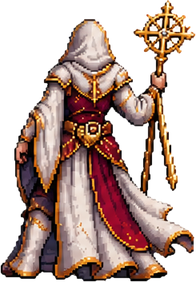
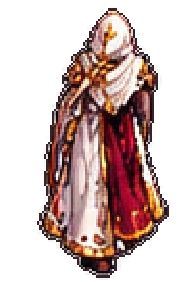
v47: Clériga renovada (poses recortadas, Bíblia, ataque/defesa sagrados, Luz Sagrada, morte)
Claude-Session: https://claude.ai/code/session_01YFC38PcyDKAfPNhJ7r1cKG

diff --git a/cleric.js b/cleric.js
@@ -1,0 +1,186 @@
+/* Banco de Dados I — RPG · Clériga (v47)
+   Poses de COSTAS recortadas das folhas de fundo branco (clr/*.png): mesma escala, ancoradas no chão pelo mesmo ponto,
+   trocadas com transição suave e brilhos dourados. Habilidades dela: ataque normal (cajado), ataque sagrado, defesa normal/sagrada, esquiva, Luz Sagrada.
+   Ociosa: lê a Bíblia, toca no livro, reza — sorteado, sem ficar se mexendo o tempo todo. */
+(() => {
+'use strict';
+const POSES = ['at1','at2','at3','at3','at2','dn1','dn2','dn2','dn1','dg1','dg2','dg3','idle1','stf','pr1','pr2','ex1','v1','v2','d1','d2','d3','d4','ult1','ult2','bt1','bt2','bt3','bt4','bp1','bp2','bp3','br1','br2','br3','br4','br5','br6','bg1','bg2','bg3','bg4'];
+const FXS = ['star1','star2','star3','ring1','ring2','ring3','pillar','lotus','burst','aura','streak1','streak2','streak3','sunstar','star4','pillar2','cross1'];
+const T = {x:517, y:340};
+const BASE = 276;
+const GOLD = '255,214,120';
+let _c = 0, _p = performance.now();
+const clk = () => { const n = performance.now(); _c += (n - _p) * (window.__ts == null ? 1 : window.__ts); _p = n; return _c; };
+const ease = u => u < .5 ? 2*u*u : 1 - Math.pow(-2*u + 2, 2) / 2, eo = u => 1 - Math.pow(1 - u, 3), ei = u => u * u * u;
+const clamp = (v, a=0, b=1) => Math.max(a, Math.min(b, v)), lerp = (a, b, u) => a + (b - a) * u, rnd = (a, b) => a + Math.random() * (b - a);
+const seg = (u, a, b) => clamp((u - a) / (b - a));
+const S = (d, steps, ev = [], o = {}) => ({dur:d, steps, ev, ...o});
+
+const ACT = {
+  melee:[
+    S(1200, [[0,'idle1'],[.14,'at1',{dx:-3}],[.32,'at2',{dx:-6}],[.52,'at3',{dx:4,dy:-4}],[.8,'at3',{dx:2}],[.96,'idle1']], [[.2,'charge'],[.5,'shot:streak1:.9'],[.76,'hit:small']]),
+    S(1300, [[0,'idle1'],[.12,'stf',{dx:-2}],[.34,'at1',{dx:-4}],[.54,'at3',{dx:4,dy:-4}],[.82,'at3',{dx:2}],[.96,'idle1']], [[.3,'charge'],[.54,'shot:streak2:.9'],[.78,'hit:small']]),
+    S(1400, [[0,'idle1'],[.14,'dn1',{dx:-3}],[.34,'at2',{dx:-4}],[.54,'at2',{dx:3}],[.82,'at2',{dx:2}],[.96,'idle1']], [[.22,'charge'],[.56,'shot:streak3:.9'],[.8,'hit:small']]),
+  ],
+  holy:[
+    S(2000, [[0,'idle1'],[.1,'at1',{dx:-3}],[.3,'at3',{dy:-4}],[.5,'at3',{dx:3}],[.78,'at2',{dx:2}],[.97,'idle1']], [[.14,'charge'],[.3,'charge'],[.52,'shot:sunstar:1.3'],[.8,'hit:holy']]),
+    S(2300, [[0,'idle1'],[.1,'pr1'],[.34,'pr2',{dy:-2}],[.5,'at1',{dx:-3}],[.62,'at3',{dy:-4}],[.78,'at3',{dx:3}],[.97,'idle1']], [[.14,'charge'],[.32,'charge'],[.5,'charge'],[.68,'shot:sunstar:1.4'],[.9,'hit:holy']]),
+    S(2600, [[0,'idle1'],[.08,'bp3'],[.2,'bt1'],[.3,'bt2'],[.4,'bt3'],[.5,'bt4',{dy:-2}],[.62,'at3',{dy:-4}],[.78,'at3',{dx:3}],[.97,'idle1']], [[.2,'charge'],[.36,'charge'],[.5,'charge'],[.66,'shot:sunstar:1.4'],[.9,'hit:holy']]),
+  ],
+  guard_n:[
+    S(1900, [[0,'idle1'],[.14,'dn1'],[.34,'dn2'],[.6,'dn2'],[.9,'dn2'],[.98,'idle1']], [[.3,'shield']]),
+    S(1900, [[0,'idle1'],[.14,'dn2'],[.34,'dn1'],[.6,'dn2',{dy:-2}],[.9,'dn2'],[.98,'idle1']], [[.3,'shield']]),
+  ],
+  guard_h:[
+    S(1900, [[0,'idle1'],[.14,'dn1'],[.3,'dn1'],[.9,'dn1',{dy:-2}],[.98,'idle1']], [[.26,'shield:holy']]),
+    S(1900, [[0,'idle1'],[.12,'pr1'],[.3,'dn1'],[.9,'dn1',{dy:-2}],[.98,'idle1']], [[.26,'shield:holy']]),
+  ],
+  ult:S(5200, [[0,'idle1'],[.08,'pr1'],[.16,'pr2'],[.26,'ult1',{dy:-2}],[.42,'ult2',{dy:-6}],[.82,'ult2',{dy:-4}],[.96,'idle1']], [[.08,'charge'],[.18,'charge'],[.3,'lightup'],[.46,'lightpillar'],[.62,'lightpillar2'],[.78,'lightend']]),
+  dodge:[
+    S(1050, [[0,'idle1'],[.1,'dg1',{dx:-6}],[.3,'dg2',{dx:-34,dy:-2}],[.52,'dg3',{dx:-50}],[.72,'dg3',{dx:-30}],[.9,'idle1']], [], {ghost:true}),
+    S(1050, [[0,'idle1'],[.1,'dg1',{dx:6}],[.3,'dg2',{dx:30,dy:-2}],[.52,'dg3',{dx:44}],[.72,'dg3',{dx:26}],[.9,'idle1']], [], {ghost:true, gdir:-1}),
+  ],
+  hurt:[
+    S(800, [[0,'idle1'],[.1,'dg3',{dx:-8,rot:-4}],[.34,'dg3',{dx:4,rot:-2}],[.6,'dg3',{dx:-2}],[.92,'idle1']], [], {tint:true}),
+    S(800, [[0,'idle1'],[.12,'ex1',{dx:-8,rot:-6}],[.36,'ex1',{dx:4,rot:-2}],[.62,'ex1'],[.92,'idle1']], [], {tint:true}),
+  ],
+  victory:[
+    S(2800, [[0,'idle1'],[.12,'v1',{dy:-2}],[.34,'v2',{dy:-6}],[.56,'v1',{dy:-4}],[.8,'v2',{dy:-6}],[.96,'idle1']], [[.14,'cheer'],[.36,'cheer'],[.6,'cheer']]),
+    S(3000, [[0,'idle1'],[.14,'at1'],[.3,'v1',{dy:-4}],[.5,'ult1',{dy:-4}],[.7,'v2',{dy:-6}],[.96,'idle1']], [[.3,'cheer'],[.52,'cheer'],[.72,'cheer']]),
+  ],
+};
+const BIBLE = [[0,'idle1'],[.05,'bp1'],[.1,'bp2'],[.15,'bp3'],[.21,'br1'],[.27,'br2'],[.33,'br3'],[.4,'br4'],[.5,'br5'],[.62,'br6'],[.72,'br5'],[.78,'bg1'],[.84,'bg2'],[.9,'bg3'],[.95,'bg4'],[.98,'idle1']];
+const IDLES = [   // ociosa: sorteada, com pausas longas entre uma e outra
+  S(7500, BIBLE),
+  S(7000, BIBLE.map(([t, p]) => [t, p])),
+  S(3600, [[0,'idle1'],[.1,'bp1'],[.2,'bp2'],[.3,'bt1'],[.45,'bt2'],[.6,'bt3'],[.75,'bt4'],[.88,'bg2'],[.97,'idle1']], [[.3,'sparkle'],[.62,'sparkle']]),
+  S(3200, [[0,'idle1'],[.18,'pr1'],[.4,'pr2'],[.8,'pr1'],[.97,'idle1']], [[.4,'sparkle']]),
+  S(2800, [[0,'idle1'],[.2,'stf',{dx:-2}],[.75,'stf',{dx:-2}],[.97,'idle1']]),
+  S(2600, [[0,'idle1'],[.2,'pr2'],[.7,'pr2'],[.97,'idle1']]),
+];
+const lastV = new WeakMap();
+const variant = v => { if (!Array.isArray(v)) return v; if (window.__vi != null) return v[window.__vi % v.length]; const p = lastV.get(v) ?? -1; let i; do { i = Math.floor(Math.random() * v.length); } while (v.length > 1 && i === p); lastV.set(v, i); return v[i]; };
+const DEATH = [[0,'d1'],[.3,'d2'],[.58,'d3'],[.82,'d4']];
+
+function glow(g, x, y, r, col, a){
+  if (a <= 0.005 || r <= 1) return; const gr = g.createRadialGradient(x, y, 0, x, y, r);
+  gr.addColorStop(0, `rgba(255,250,235,${clamp(a * .6)})`); gr.addColorStop(.16, `rgba(${col},${clamp(a)})`); gr.addColorStop(.5, `rgba(${col},${clamp(a * .32)})`); gr.addColorStop(1, `rgba(${col},0)`);
+  g.save(); g.globalCompositeOperation = 'lighter'; g.fillStyle = gr; g.fillRect(x - r, y - r, r * 2, r * 2); g.restore();
+}
+
+function make(host){
+  const {c, cv, Px, Py, W, Hh, world, layers} = host, front = layers.front, fc = front.getContext('2d'), back = layers.back, bc = back.getContext('2d');
+  let backUsed = false;
+  const cw = cv.width, ch = cv.height, OX = world.x - Px, OY = world.y - Py;
+  let M = null; const img = {};
+  const load = (k, src) => img[k] || (img[k] = Object.assign(new Image(), {src}));
+  fetch('clr/meta.json').then(r => r.json()).then(j => { M = j; POSES.forEach(n => load(n, `clr/${n}.png`)); FXS.forEach(n => load('fx_' + n, `clr/fx_${n}.png`)); }).catch(() => {});
+  let chargeT = -9999, orbVis = 0, fxl = [], cur = null, shakeT = 0, flashT = 0, last = 0, t0 = clk(), running = false;
+  let dead = 0, deadTarget = 0, deadT = 0, prev = null, curPose = null, orbW = {x:world.x + 150, y:world.y + 40}, lastT = {dx:0, dy:0, rot:0, sc:1}, cur_t = 0, fade = 240;
+  const ready = n => img[n] && img[n].complete && img[n].naturalWidth;
+  const E = (name, d, f, o = {}) => fxl.push({name, d, f, t0: clk() + (o.delay || 0), add: o.add !== false, bk: !!o.back});
+  const orbPos = () => ({...orbW});
+  const dir = (a, b) => Math.atan2(b.y - a.y, b.x - a.x);
+  const feet = () => ({x:world.x + W / 2, y:world.y + BASE});
+
+  function shot(name, size){
+    const a = orbPos(), b = T, dist = Math.hypot(b.x - a.x, b.y - a.y), d = 560 + dist * .55, ang = dir(a, b), k = rnd(-1, 1) * 24;
+    const path = u => { const e = Math.pow(u, 1.8), w = Math.sin(Math.PI * u); return {x:lerp(a.x, b.x, e) + k * w + Math.sin(u * 11) * 6 * w, y:lerp(a.y, b.y, e) - w * 46}; };
+    const fade = u => u < .1 ? u / .1 : u > .94 ? (1 - u) / .06 : 1, streak = /^streak/.test(name);
+    E('glow', d, u => { const p = path(u); return {x:p.x, y:p.y, r:(70 + 22 * Math.sin(u * 28)) * size * (.6 + .6 * u), c:GOLD, a:.85 * fade(u)}; });
+    E('fx_' + name, d, u => { const p = path(u), q = path(Math.min(1, u + .04)); return {x:p.x, y:p.y, s:size * (streak ? 1.1 : 1.0) * (.6 + .5 * Math.sin(Math.min(1, u * 1.3) * 1.57)), rot:streak ? Math.atan2(q.y - p.y, q.x - p.x) + 3.14 : Math.sin(u * 6) * .3, a:fade(u) * .95}; });
+    for (let i = 1; i <= 11; i++) { const ut = i / 12, p = path(ut); E('glow', 520, v => ({x:p.x + Math.sin(i * 3) * 6 * v, y:p.y - 12 * v, r:(54 * size) * (1 - v * .6), c:GOLD, a:.5 * (1 - v)}), {delay:ut * d}); }
+    for (let i = 0; i < 9; i++) { const ut = (i + .5) / 9 * .95, p = path(ut), ox = rnd(-18, 18), oy = rnd(-18, 18); E('fx_star' + (1 + i % 3), 600, v => ({x:p.x + ox * v, y:p.y + oy * v - 16 * v, s:.45 * (1 - v), rot:v * 2, a:1 - v}), {delay:ut * d}); }
+  }
+  function hit(kind){
+    const bl = (r, col, a, dl = 0, d = 650) => E('glow', d, u => ({...T, r:r * (.4 + eo(u) * .9), c:col, a:a * (1 - u) * (u < .08 ? u / .08 : 1)}), {delay:dl});
+    if (kind === 'small') { bl(120, GOLD, .9); E('fx_sunstar', 560, u => ({...T, s:lerp(.4, .9, eo(u)), a:(u < .1 ? u / .1 : 1 - seg(u, .1, 1)) * .85})); }
+    else { bl(260, GOLD, 1, 0, 1000); bl(150, '255,255,255', .9, 0, 520); E('fx_sunstar', 800, u => ({...T, s:lerp(.5, 1.7, eo(u)), a:(u < .08 ? u / .08 : 1 - seg(u, .08, 1)) * .9})); E('fx_pillar2', 900, u => ({x:T.x, y:T.y + 80, s:1.1, sy:lerp(.2, 1, eo(Math.min(1, u * 2))), anchorB:1, a:u < .1 ? u / .1 : 1 - seg(u, .3, 1)}), {delay:60}); E('fx_ring1', 800, u => ({x:T.x, y:T.y + 60, s:lerp(.5, 1.8, eo(u)), sy:.45, a:(1 - u) * .8})); shakeT = clk(); }
+  }
+  const EV = {
+    charge(){ chargeT = clk(); E('glow', 1000, u => ({...orbPos(), r:lerp(30, 115, eo(u)), c:GOLD, a:.9 * Math.sin(Math.PI * Math.min(1, u * 1.15))}));
+      E('fx_ring3', 1100, u => ({x:feet().x, y:feet().y - 4, s:lerp(.6, .9, u), sy:.3, a:.5 * Math.sin(Math.PI * u)}));
+      for (let i = 0; i < 8; i++) { const an = i * .79 + rnd(0, .5); E('fx_star' + (1 + i % 3), 760, u => { const r = 100 * (1 - eo(u)) + 8, o = orbPos(); return {x:o.x + Math.cos(an + u * 2) * r, y:o.y + Math.sin(an + u * 2) * r * .8, s:.4 * (.5 + u * .5), rot:u * 3, a:Math.sin(Math.PI * u)}; }, {delay:i * 70}); } },
+    sparkle(){ const o = orbPos(), f = feet(); for (let i = 0; i < 6; i++) { const an = rnd(0, 6.28); E('fx_star' + (1 + i % 3), 900, u => ({x:f.x + Math.cos(an) * 40 * eo(u), y:f.y - 110 - 40 * u + Math.sin(an) * 30 * eo(u), s:.4 * (1 - u * .5), a:Math.sin(Math.PI * u)}), {delay:i * 120}); } },
+    cheer(){ const f = feet(); E('glow', 700, u => ({x:f.x, y:f.y - 120, r:lerp(40, 140, eo(u)), c:GOLD, a:.6 * (1 - u)})); for (let i = 0; i < 5; i++) { const an = i * 1.3; E('fx_star' + (1 + i % 3), 800, u => ({x:f.x + Math.cos(an) * 70 * eo(u), y:f.y - 130 + Math.sin(an) * 50 * eo(u) - 24 * u, s:.5 * (1 - u), a:1 - u}), {delay:i * 90}); } },
+    shield(k){ const f = feet(), h = k === 'holy';
+      E('glow', 1700, u => ({x:f.x, y:f.y - 115, r:h ? 175 : 140, c:h ? GOLD : '255,236,190', a:(h ? .55 : .38) * Math.sin(Math.PI * u)}), {back:true});
+      E('fx_aura', 1700, u => ({x:f.x, y:f.y - 120, s:lerp(.75, .95, eo(u)), a:(u < .12 ? u / .12 : u > .8 ? (1 - u) / .2 : 1) * (h ? .55 : .3)}), {back:true});
+      E('fx_ring1', 1500, u => ({x:f.x, y:f.y - 6, s:lerp(.6, 1.1, eo(u)), sy:.3, a:(h ? .8 : .45) * Math.sin(Math.PI * u)}));
+      for (let i = 0; i < (h ? 7 : 4); i++) { const an = i * .9; E('fx_star' + (1 + i % 3), 1100, u => ({x:f.x + Math.cos(an) * 70, y:f.y - 40 - 150 * u + Math.sin(an) * 20, s:.4, a:Math.sin(Math.PI * u)}), {delay:i * 180}); } },
+    lightup(){ const f = feet(); flashT = clk(); E('fx_ring2', 2600, u => ({x:f.x, y:f.y - 4, s:lerp(.5, 1.3, eo(u)), sy:.32, rot:0, a:u < .1 ? u / .1 : 1 - seg(u, .6, 1)})); E('fx_lotus', 2400, u => ({x:f.x, y:f.y + 6, s:lerp(.5, 1, eo(Math.min(1, u * 2))), anchorB:1, a:u < .12 ? u / .12 : 1 - seg(u, .55, 1)})); },
+    lightpillar(){ const f = feet(); E('fx_pillar', 2400, u => ({x:f.x, y:f.y + 4, s:1.5, sy:lerp(.2, 1, eo(Math.min(1, u * 2))), anchorB:1, a:u < .1 ? u / .1 : 1 - seg(u, .5, 1)}), {back:true}); E('glow', 2400, u => ({x:f.x, y:f.y - 140, r:lerp(60, 230, eo(Math.min(1, u * 1.6))), c:GOLD, a:.8 * Math.sin(Math.PI * u)})); },
+    lightpillar2(){ const f = feet(); E('fx_burst', 1800, u => ({x:f.x, y:f.y + 4, s:1.7, sy:lerp(.3, 1, eo(Math.min(1, u * 2))), anchorB:1, a:u < .1 ? u / .1 : 1 - seg(u, .4, 1)}), {back:true}); for (let i = 0; i < 10; i++) { const an = i * .63; E('fx_star' + (1 + i % 3), 1400, u => ({x:f.x + Math.cos(an) * 80 * eo(u), y:f.y - 60 - 160 * u + Math.sin(an) * 30, s:.5 * (1 - u * .4), a:Math.sin(Math.PI * u)}), {delay:i * 110}); } },
+    lightend(){ const f = feet(); E('glow', 900, u => ({x:f.x, y:f.y - 140, r:lerp(100, 320, eo(u)), c:'255,240,200', a:.9 * (1 - u)})); E('fx_sunstar', 800, u => ({x:f.x, y:f.y - 140, s:lerp(.6, 2, eo(u)), a:1 - u})); flashT = clk(); },
+  };
+  function runEv(e){ if (typeof e === 'function') return e(); const [k, a, b] = e.split(':'); if (k === 'shot') shot(a, +b); else if (k === 'hit') hit(a); else if (EV[k]) EV[k](a); }
+
+  function poseAt(a, pe){
+    const st = a.steps; let i = 0; while (i < st.length - 1 && pe >= st[i + 1][0]) i++;
+    const A = st[i], B = st[Math.min(i + 1, st.length - 1)], u = A === B ? 1 : ease(clamp((pe - A[0]) / (B[0] - A[0])));
+    const ta = A[2] || {}, tb = B[2] || {};
+    return {pose:A[1], dx:lerp(ta.dx || 0, tb.dx || 0, u), dy:lerp(ta.dy || 0, tb.dy || 0, u), rot:lerp(ta.rot || 0, tb.rot || 0, u), sc:1};
+  }
+  function drawPose(name, dx, dy, rot, alpha, tm, tint, sc = 1, br0 = 1){
+    const m = M.poses[name], im = img[name]; if (!m || !ready(name)) return null;
+    const br = Math.sin(tm / 1000 * 2.2) * br0, fx = Px + W / 2 + dx, fy = Py + BASE + dy;
+    c.save(); c.globalAlpha = alpha; c.translate(fx, fy); c.rotate(rot * Math.PI / 180); c.scale(sc * (1 - .004 * br), sc * (1 + .008 * br));
+    c.drawImage(im, -m.cx, -m.gy);
+    if (tint) { c.globalCompositeOperation = 'source-atop'; c.fillStyle = `rgba(255,40,40,${tint})`; c.fillRect(-m.cx, -m.gy, m.w, m.h); }
+    c.restore();
+    if (m.orb) { const k = Math.cos(rot * Math.PI / 180), s = Math.sin(rot * Math.PI / 180), ox = m.orb[0] - m.cx, oy = m.orb[1] - m.gy; return {x:OX + fx + ox * k - oy * s, y:OY + fy + ox * s + oy * k}; }
+    return null;
+  }
+  function frame(){
+    if (!running) return; requestAnimationFrame(frame); const now = clk();
+    if (document.hidden || now - last < 16) return; last = now;
+    if (!M) return;
+    const tm = now - t0; let st, a = cur && cur.a, pe = 0;
+    if (deadTarget) { const k = clamp((now - deadT) / 900); st = poseAt({steps:DEATH, dur:900}, k); }
+    else if (cur) {
+      pe = (now - cur.start) / a.dur; st = poseAt(a, clamp(pe));
+      const ev = a.ev || []; while (cur.fired < ev.length && pe >= ev[cur.fired][0]) runEv(ev[cur.fired++][1]);
+      if (pe >= 1) { const d = cur; cur = null; d.done(); }
+    } else st = {pose:'idle1', dx:0, dy:0, rot:0, sc:1};
+    if (st.pose !== curPose) { prev = curPose ? {pose:curPose, dx:lastT.dx, dy:lastT.dy, rot:lastT.rot, sc:lastT.sc || 1} : null; curPose = st.pose; cur_t = now; fade = cur || deadTarget ? 110 : 240; }
+    lastT = st;
+    const f = clamp((now - cur_t) / fade);
+    c.clearRect(0, 0, cw, ch); if (!deadTarget) { c.save(); c.translate(Px - host.P, Py - host.P); host.shadow(c); c.restore(); } c.imageSmoothingEnabled = false;
+    const tint = a && a.tint ? Math.sin(clamp(pe) * Math.PI) * .55 : 0;
+    if (a && a.ghost) { const g = Math.sin(clamp(pe) * Math.PI), gd = a.gdir || 1; drawPose(st.pose, st.dx + 46 * g * gd, st.dy, st.rot, .18 * g, tm, 0, st.sc, 0); drawPose(st.pose, st.dx + 90 * g * gd, st.dy, st.rot, .10 * g, tm, 0, st.sc, 0); }
+    if (prev && f < 1) drawPose(prev.pose, prev.dx, prev.dy, prev.rot, 1, tm, tint, prev.sc, deadTarget ? 0 : 1);
+    const o = drawPose(st.pose, st.dx, st.dy, st.rot, prev && f < 1 ? f : 1, tm, tint, st.sc || 1, deadTarget ? 0 : 1);
+    if (o) orbW = o; orbVis += ((o && !deadTarget ? 1 : 0) - orbVis) * .18;
+    fc.clearRect(0, 0, front.width, front.height);
+    if (orbVis > .02) { const cb = Math.max(0, 1 - (now - chargeT) / 1100), pulse = .5 + .5 * Math.sin(tm / 330);
+      glow(fc, orbW.x, orbW.y, (22 + 6 * pulse + 40 * cb) * (cur ? 1.15 : 1), GOLD, orbVis * (.3 + .15 * pulse + .35 * cb)); }
+    if (backUsed) { bc.clearRect(0, 0, back.width, back.height); backUsed = false; }
+    fxl = fxl.filter(e => {
+      const u = (now - e.t0) / e.d; if (u < 0) return true; if (u >= 1) return false;
+      const s = e.f(u), im = img[e.name], fc = e.bk ? bc : front.getContext('2d'); if (e.bk) backUsed = true;
+      if (e.name === 'glow') { if (!s) return true; glow(fc, s.x, s.y, s.r, s.c, s.a); return true; }
+      if (!ready(e.name) || !s) return true;
+      const w = im.naturalWidth * (s.s || 1) * (s.sx || 1), h = im.naturalHeight * (s.s || 1) * (s.sy || 1);
+      fc.save(); fc.globalAlpha = clamp(s.a == null ? 1 : s.a); fc.globalCompositeOperation = e.add ? 'lighter' : 'source-over'; fc.translate(s.x, s.y); if (s.rot) fc.rotate(s.rot);
+      fc.drawImage(im, -w / 2, s.anchorB ? -h : -h / 2, w, h); fc.restore(); return true;
+    });
+    if (flashT && now >= flashT) { const u = (now - flashT) / 420; if (u < 1) { fc.save(); fc.fillStyle = `rgba(255,236,170,${.45 * (1 - u)})`; fc.fillRect(0, 0, front.width, front.height); fc.restore(); } else flashT = 0; }
+    if (shakeT && now >= shakeT) { const u = (now - shakeT) / 450, g = host.shakeEl; if (g) g.style.transform = u < 1 ? `translate(${Math.sin(u * 60) * 4 * (1 - u)}px,${Math.cos(u * 50) * 3 * (1 - u)}px)` : ''; if (u >= 1) shakeT = 0; }
+  }
+  const run = (a, extra) => new Promise(res => { if (cur) cur.done(false); cur = {a, start: clk(), fired: 0, done: ok => res(ok !== false), ...extra}; });
+  return {
+    start(){ if (!running) { running = true; requestAnimationFrame(frame); } },
+    play(name, o = {}){
+      if (deadTarget) return Promise.resolve(false);
+      if (name === 'guard') return run(variant(/ffe08a/i.test(o.color || '') ? ACT.guard_h : ACT.guard_n));
+      if (name === 'cast') name = 'holy';
+      const a = variant(ACT[name]); return a ? run(a) : Promise.resolve(false);
+    },
+    idle(){ if (cur || deadTarget) return Promise.resolve(false); return run(variant(IDLES)); },
+    has: n => !!ACT[n] || n === 'guard' || n === 'cast',
+    setDead(d){ if (d) { if (cur) cur.done(false); cur = null; deadTarget = 1; deadT = clk(); } else { deadTarget = 0; flashT = clk(); } },
+    reset(){ if (cur) { const d = cur; cur = null; d.done(false); } fxl = []; deadTarget = 0; dead = 0; },
+  };
+}
+window.ClericRig = {make};
+})();

diff --git a/sw.js b/sw.js
@@ -1,5 +1,5 @@
-const CACHE='bd1-rpg-v46';
-const ASSETS=['./','./index.html','./game.html','./lobby.js','./lobby.css','./select_plate.webp','./char_mage.webp','./char_knight.webp','./char_tank.webp','./char_assassin.webp','./panel_mage.webp','./panel_knight.webp','./panel_tank.webp','./panel_assassin.webp','./style.css','./app.js','./anim.js','./mage.js','./mage3/air.png','./mage3/atk1.png','./mage3/atk2.png','./mage3/atk3.png','./mage3/bh1.png','./mage3/bh2.png','./mage3/castdef.png','./mage3/defair.png','./mage3/defearth.png','./mage3/deffire.png','./mage3/defmana.png','./mage3/defwater.png','./mage3/dodge1.png','./mage3/dodge2.png','./mage3/dodge3.png','./mage3/dodge4.png','./mage3/earth.png','./mage3/fire.png','./mage3/fx_air_swirl.png','./mage3/fx_bh_big.png','./mage3/fx_bh_big2.png','./mage3/fx_bh_small.png','./mage3/fx_bh_spikes.png','./mage3/fx_bolt.png','./mage3/fx_comet.png','./mage3/fx_cross.png','./mage3/fx_crystal.png','./mage3/fx_earth_spikes.png','./mage3/fx_fire_fall.png','./mage3/fx_mana_aura.png','./mage3/fx_orb_blue.png','./mage3/fx_orb_orange.png','./mage3/fx_orb_red.png','./mage3/fx_orbb.png','./mage3/fx_ring_floor.png','./mage3/fx_rock.png','./mage3/fx_rocks.png','./mage3/fx_star_big.png','./mage3/fx_star_small.png','./mage3/fx_water_pillar.png','./mage3/fx_whirl.png','./mage3/idle1.png','./mage3/idle2.png','./mage3/idle3.png','./mage3/idle4.png','./mage3/meta.json','./mage3/spin1.png','./mage3/spinwide.png','./mage3/stars.png','./mage3/swingf.png','./mage3/swingl.png','./mage3/swingr.png','./mage3/water.png','./anim/manifest.json','./spr_mage.webp','./spr_knight.webp','./spr_tank.webp','./spr_assassin.webp','./spr_boss.webp','./game_clean.png','./question_panel.png','./icon_attack.png','./icon_coin.png','./manifest.webmanifest','./potion_hp.png','./potion_mana.png'];
+const CACHE='bd1-rpg-v47';
+const ASSETS=['./','./index.html','./game.html','./lobby.js','./lobby.css','./select_plate.webp','./char_mage.webp','./char_knight.webp','./char_tank.webp','./char_assassin.webp','./panel_mage.webp','./panel_knight.webp','./panel_tank.webp','./panel_assassin.webp','./style.css','./app.js','./anim.js','./mage.js','./cleric.js','./clr/at1.png','./clr/at2.png','./clr/at3.png','./clr/bg1.png','./clr/bg2.png','./clr/bg3.png','./clr/bg4.png','./clr/bp1.png','./clr/bp2.png','./clr/bp3.png','./clr/br1.png','./clr/br2.png','./clr/br3.png','./clr/br4.png','./clr/br5.png','./clr/br6.png','./clr/bt1.png','./clr/bt2.png','./clr/bt3.png','./clr/bt4.png','./clr/d1.png','./clr/d2.png','./clr/d3.png','./clr/d4.png','./clr/dg1.png','./clr/dg2.png','./clr/dg3.png','./clr/dn1.png','./clr/dn2.png','./clr/dn3.png','./clr/ds1.png','./clr/ex1.png','./clr/fx_aura.png','./clr/fx_burst.png','./clr/fx_cross1.png','./clr/fx_lotus.png','./clr/fx_pillar.png','./clr/fx_pillar2.png','./clr/fx_ring1.png','./clr/fx_ring2.png','./clr/fx_ring3.png','./clr/fx_star1.png','./clr/fx_star2.png','./clr/fx_star3.png','./clr/fx_star4.png','./clr/fx_streak1.png','./clr/fx_streak2.png','./clr/fx_streak3.png','./clr/fx_sunstar.png','./clr/hat1.png','./clr/hat2.png','./clr/idle1.png','./clr/meta.json','./clr/pr1.png','./clr/pr2.png','./clr/stf.png','./clr/ult1.png','./clr/ult2.png','./clr/v1.png','./clr/v2.png','./mage3/air.png','./mage3/atk1.png','./mage3/atk2.png','./mage3/atk3.png','./mage3/bh1.png','./mage3/bh2.png','./mage3/castdef.png','./mage3/defair.png','./mage3/defearth.png','./mage3/deffire.png','./mage3/defmana.png','./mage3/defwater.png','./mage3/dodge1.png','./mage3/dodge2.png','./mage3/dodge3.png','./mage3/dodge4.png','./mage3/earth.png','./mage3/fire.png','./mage3/fx_air_swirl.png','./mage3/fx_bh_big.png','./mage3/fx_bh_big2.png','./mage3/fx_bh_small.png','./mage3/fx_bh_spikes.png','./mage3/fx_bolt.png','./mage3/fx_comet.png','./mage3/fx_cross.png','./mage3/fx_crystal.png','./mage3/fx_earth_spikes.png','./mage3/fx_fire_fall.png','./mage3/fx_mana_aura.png','./mage3/fx_orb_blue.png','./mage3/fx_orb_orange.png','./mage3/fx_orb_red.png','./mage3/fx_orbb.png','./mage3/fx_ring_floor.png','./mage3/fx_rock.png','./mage3/fx_rocks.png','./mage3/fx_star_big.png','./mage3/fx_star_small.png','./mage3/fx_water_pillar.png','./mage3/fx_whirl.png','./mage3/idle1.png','./mage3/idle2.png','./mage3/idle3.png','./mage3/idle4.png','./mage3/meta.json','./mage3/spin1.png','./mage3/spinwide.png','./mage3/stars.png','./mage3/swingf.png','./mage3/swingl.png','./mage3/swingr.png','./mage3/water.png','./anim/manifest.json','./spr_mage.webp','./spr_knight.webp','./spr_tank.webp','./spr_assassin.webp','./spr_boss.webp','./game_clean.png','./question_panel.png','./icon_attack.png','./icon_coin.png','./manifest.webmanifest','./potion_hp.png','./potion_mana.png'];
 // Tudo em cache (abre instantâneo, até offline). Em segundo plano o SW confere a rede (requisição condicional, barata);
 // se algum arquivo mudou, atualiza o cache e avisa a página, que recarrega sozinha (menu) ou mostra o aviso (jogo).
 const keyOf=u=>{const x=new URL(u);return x.origin+x.pathname};

diff --git a/anim.js b/anim.js
@@ -32,9 +32,10 @@ function build(){
     cv.style.cssText = `left:${(m.x - P) / 1024 * 100}%;top:${(m.y - P) / 1536 * 100}%;width:${cellW(w) / 1024 * 100}%;height:${cellH(w) / 1536 * 100}%`;
     ref.after(cv);
     const still = new Image(); still.src = `spr_${w}.webp`;
-    H[w] = {cv, c:cv.getContext('2d'), still, sheets:{}, cur:null, dead:false, idleT:null, token:0, hold:null};
+    H[w] = {who:w, cv, c:cv.getContext('2d'), still, sheets:{}, cur:null, dead:false, idleT:null, token:0, hold:null};
     drawStill(w); still.onload = () => { if (!H[w].cur) drawStill(w); };
-    if (w === 'mage' && window.MageRig) buildMage(H[w], m, P);
+    if (w === 'mage' && window.MageRig) buildMage(H[w], m, P, window.MageRig, {PX:130, PXR:340, PT:170, PB:40, orb:{x:m.x + 190, y:m.y + 45}});
+    if (w === 'assassin' && window.ClericRig) buildMage(H[w], m, P, window.ClericRig, {PX:170, PXR:110, PT:230, PB:40, orb:{x:m.x + 150, y:m.y + 40}});
   });
   fetch('anim/manifest.json', {cache:'no-cache'}).then(r => r.ok ? r.json() : null).catch(() => null).then(async cfg => {
     if (cfg) CFG = cfg;
@@ -42,14 +43,14 @@ function build(){
     for (const w of WHO) { H[w].sheets = await loadSheets(w); drawStill(w); scheduleIdle(w, rnd(800, 2500)); }
   });
 }
-function buildMage(h, m, P){
-  const PX = 130, PXR = 340, PT = 170, PB = 40, cw = m.w + PX + PXR, ch = m.h + PT + PB;
+function buildMage(h, m, P, Rig, cfg){
+  const {PX, PXR, PT, PB} = cfg, cw = m.w + PX + PXR, ch = m.h + PT + PB;
   h.cv.width = cw; h.cv.height = ch;
   h.cv.style.cssText = `left:${(m.x - PX) / 1024 * 100}%;top:${(m.y - PT) / 1536 * 100}%;width:${cw / 1024 * 100}%;height:${ch / 1536 * 100}%`;
   const mk = (cls) => { const k = document.createElement('canvas'); k.className = 'fxl ' + cls; k.width = 1024; k.height = 1536; return k; };
   const back = mk('back'), front = mk('front'); $('#game').append(back, front);
-  h.rig = window.MageRig.make({c:h.c, cv:h.cv, P, Px:PX, Py:PT, W:m.w, Hh:m.h, world:{x:m.x, y:m.y}, layers:{back, front}, orbWorld:{x:m.x + 190, y:m.y + 45},
-    shadow:c => shadow(c, 'mage'), shakeEl:$('#game')});
+  h.rig = Rig.make({c:h.c, cv:h.cv, P, Px:PX, Py:PT, W:m.w, Hh:m.h, world:{x:m.x, y:m.y}, layers:{back, front}, orbWorld:cfg.orb,
+    shadow:c => shadow(c, h.who), shakeEl:$('#game')});
   h.rig.start();
 }
 function drawStill(w){
@@ -111,6 +112,6 @@ function setAura(w, kind){
 }
 function reset(){ WHO.forEach(w => { const h = H[w]; if (!h) return; h.token++; h.cur = null; h.dead = false; h.cv.classList.remove('dead'); if (h.rig) h.rig.reset(); setAura(w, null); drawStill(w); scheduleIdle(w, 1000); }); }
 const none = () => {};
-window.Anim = {META, play, setDead, setAura, reset, build, say:none, sayRandom:none, sfx:none, useSheet:() => {}, has:(w, n) => !!(H[w] && ((H[w].rig && H[w].rig.has(n)) || resolve(w, n)))};
+window.Anim = {META, play, idleNow:w => H[w] && H[w].rig && H[w].rig.idle(), setDead, setAura, reset, build, say:none, sayRandom:none, sfx:none, useSheet:() => {}, has:(w, n) => !!(H[w] && ((H[w].rig && H[w].rig.has(n)) || resolve(w, n)))};
 if (document.readyState === 'loading') document.addEventListener('DOMContentLoaded', () => setTimeout(build, 0)); else setTimeout(build, 0);
 })();

diff --git a/game.html b/game.html
@@ -86,6 +86,7 @@
 </div>
 <script src="lobby.js"></script>
 <script src="mage.js"></script>
+<script src="cleric.js"></script>
 <script src="anim.js"></script>
 <script src="app.js"></script>
 </body>

diff --git a/tools/cut_cleric.py b/tools/cut_cleric.py
@@ -1,0 +1,78 @@
+# Recorta as folhas de fundo BRANCO da Clériga -> clr/*.png + clr/meta.json (poses de costas na mesma escala, ancoradas no chão)
+import numpy as np, json, os, sys, shutil
+from PIL import Image
+from scipy import ndimage as ndi
+UP = '/root/.claude/uploads/3a96d84d-702c-52a6-9324-e85ba38ea593/'
+OUT = 'clr'; BODY_H = 265.0
+SHEETS = {'a':'630d9581', 'b':'34562ee6', 'c':'a4df0f43'}
+REF = {'a':('a', 152), 'b':('b', 33), 'c':('c', 159)}      # pose neutra de cada folha (capuz→barra = BODY_H)
+POSES = {   # nome: (folha, [ids], staff?)
+ 'at1':('a',[144],1), 'at2':('a',[155],0), 'at3':('a',[142],1), 'hat1':('a',[147],1), 'hat2':('a',[158],1),
+ 'dn1':('a',[146],1), 'dn2':('a',[153],0), 'dn3':('a',[150],0), 'ds1':('a',[149],0),
+ 'dg1':('a',[156],0), 'dg2':('a',[154],1), 'dg3':('a',[157],0),
+ 'idle1':('a',[152],0), 'stf':('a',[145],1), 'pr1':('a',[290],0), 'pr2':('a',[288],0), 'ex1':('a',[291],0),
+ 'v1':('a',[278],1), 'v2':('a',[279],0), 'd1':('a',[285],0), 'd2':('a',[310],0), 'd3':('a',[307],0), 'd4':('a',[321],0),
+ 'ult1':('a',[179],1), 'ult2':('a',[180],1),
+ 'bt1':('b',[12],0), 'bt2':('b',[13],0), 'bt3':('b',[14],0), 'bt4':('b',[9],0),
+ 'bp1':('b',[11],0), 'bp2':('b',[10],0), 'bp3':('b',[8],0),
+ 'br1':('b',[29],0), 'br2':('b',[30],0), 'br3':('b',[32],0), 'br4':('b',[35],0), 'br5':('b',[31],0), 'br6':('b',[28],0),
+ 'bg1':('b',[33],0), 'bg2':('b',[34],0), 'bg3':('b',[36],0), 'bg4':('b',[37],0),
+}
+FX = {'star1':('a',[261]), 'star2':('a',[346]), 'star3':('a',[305]), 'ring1':('a',[263]), 'ring2':('a',[299]), 'ring3':('a',[341]), 'pillar':('a',[281]), 'lotus':('a',[326]),
+      'burst':('a',[257]), 'aura':('a',[183]), 'streak1':('a',[184]), 'streak2':('a',[236]), 'streak3':('a',[240]), 'sunstar':('a',[178]), 'star4':('a',[237]), 'pillar2':('a',[166]), 'cross1':('a',[193])}
+
+class Sheet:
+    def __init__(s, k):
+        s.a = np.asarray(Image.open(f'{UP}{SHEETS[k]}-image.png').convert('RGB')).astype(np.float32)
+        nw = s.a.min(2) < 225; s.lab, s.n = ndi.label(ndi.binary_dilation(nw, iterations=2)); s.sl = ndi.find_objects(s.lab)
+    def crop(s, ids, pad=4):
+        m = np.isin(s.lab, ids); ys, xs = np.where(m); y0, y1, x0, x1 = ys.min() - pad, ys.max() + 1 + pad, xs.min() - pad, xs.max() + 1 + pad
+        c = s.a[y0:y1, x0:x1].copy(); mm = ndi.binary_dilation(m[y0:y1, x0:x1], iterations=1); c[~mm] = 255; return c
+def matte(c):
+    mn = c.min(2); sat = c.max(2) - mn
+    nearw = mn >= 238; lab, n = ndi.label(nearw); ids = set(np.unique(np.concatenate([lab[0], lab[-1], lab[:, 0], lab[:, -1]]))) - {0}
+    bg = np.isin(lab, list(ids))
+    solid = (mn < 205) | (sat > 110)
+    solid = ndi.binary_opening(solid, iterations=1) | ndi.binary_dilation(solid & (mn < 150), iterations=1)
+    core = ndi.binary_fill_holes(ndi.binary_closing(solid, iterations=3))
+    l, k = ndi.label(core)
+    if k: sz = ndi.sum(core, l, range(1, k + 1)); core = np.isin(l, [i + 1 for i, v in enumerate(sz) if v >= .2 * sz.max()])
+    aw = np.clip((250 - mn) / (250 - 185), 0, 1); alpha = aw.copy(); alpha[core & ~bg] = 1.0
+    return alpha, core & ~bg
+def rgba(c, al):
+    rgb = np.clip((c - 255 * (1 - al[..., None])) / np.maximum(al[..., None], .12), 0, 255); return np.dstack([rgb, al * 255]).astype(np.uint8)
+def fixedge(im, core):
+    """tira franja branca na borda e põe contorno escuro de 1px"""
+    a = im[..., 3].astype(int); rgb = im[..., :3].astype(int); mn = rgb.min(2)
+    out = ndi.binary_dilation(a < 40, iterations=2) & (a > 0)
+    white = (mn > 222) & out & ((rgb.max(2) - mn) < 40)
+    im[..., 3][white] = 0
+    a = im[..., 3].astype(int); body = ndi.binary_erosion(core, iterations=0) & (a > 0)
+    ring = ndi.binary_dilation(a >= 150, iterations=1) & (a < 150)
+    ring &= ndi.binary_dilation(core, iterations=3)
+    im[..., :3][ring] = (58, 34, 38); im[..., 3][ring] = 255
+    return im
+def stats(im, core):
+    a = im[..., 3]; sol = (a > 240) & core
+    ys, xs = np.where(sol); gy = ys.max() + 1; top = ys.min()
+    band = sol[int(gy - .18 * (gy - top)):gy]; bx = np.where(band)[1]; cx = float(bx.mean())
+    return float(cx), float(gy), float(top)
+if __name__ == '__main__':
+    shutil.rmtree(OUT, ignore_errors=True); os.makedirs(OUT)
+    sh = {k: Sheet(k) for k in SHEETS}; scale = {}
+    for k, (sk, i) in REF.items():
+        c = sh[sk].crop([i]); al, core = matte(c); im = rgba(c, al); cx, gy, top = stats(im, core); scale[k] = BODY_H / (gy - top)
+    print('escalas', scale)
+    meta = {'poses':{}, 'fx':{}, 'body_h':BODY_H}
+    for name, (k, ids, staff) in POSES.items():
+        c = sh[k].crop(ids); al, core = matte(c); im = rgba(c, al); im = fixedge(im, core); cx, gy, top = stats(im, core)
+        I = Image.fromarray(im); s = scale[k] * ({'pr1':1.19,'pr2':1.19,'ex1':1.19}.get(name, 1.0)) * (0.96 if k == 'b' else 1.0); I = I.resize((max(1, round(I.width * s)), max(1, round(I.height * s))), Image.LANCZOS if s < 1 else Image.NEAREST)
+        # reamostra o mesmo recorte p/ meta
+        orb = None
+        if staff:
+            a2 = np.asarray(I)[..., 3]; ys, xs = np.where(a2 > 200); t = ys.min(); sel = ys < t + 10; orb = [float(xs[sel].mean()), float(t + 5)]
+        I.save(f'{OUT}/{name}.png'); meta['poses'][name] = {'w':I.width, 'h':I.height, 'cx':cx * s, 'gy':gy * s, 'orb':orb}
+    for name, (k, ids) in FX.items():
+        c = sh[k].crop(ids); mn = c.min(2); al = np.clip((250 - mn) / 70, 0, 1); im = rgba(c, al); I = Image.fromarray(im)
+        I = I.resize((round(I.width * 2.0), round(I.height * 2.0)), Image.NEAREST); I.save(f'{OUT}/fx_{name}.png'); meta['fx'][name] = {'w':I.width, 'h':I.height}
+    json.dump(meta, open(f'{OUT}/meta.json', 'w'), default=float); print(len(meta['poses']), 'poses', len(meta['fx']), 'fx')

diff --git a/README.md b/README.md
@@ -195,3 +195,8 @@ Animações por código removidas de vez. `anim.js` toca sprite sheets desenhado
 ## v46
 - Maga só tem as animações das habilidades dela: ataque de mana, elemental (4 elementos × 4 variações), escudos, esquiva, dano, vitória, ult e golpe extra. Removidos "passar a vez" e "ataque pesado" (são do Guerreiro/Tanque).
 - Defesa: o escudo da Maga não é mais cortado pela pose de dano quando o golpe do boss é defendido.
+
+## v47 — Clériga renovada
+- Novo rig `cleric.js` + poses de costas recortadas das folhas brancas (`tools/cut_cleric.py` → `clr/`), mesma escala e ancoradas no chão, manto branco preservado, contorno escuro.
+- Habilidades dela: Ataque Normal (cajado, 3 variações), Ataque Sagrado (3 variações, uma lendo/tocando a Bíblia), Defesa Normal e Sagrada (escudo de luz atrás dela), Esquiva (2), Luz Sagrada (pilar de luz), dano, vitória e morte (cai no chão).
+- Ociosa: sorteia ler a Bíblia, tocar no livro, rezar ou erguer o cajado, com pausas longas.
